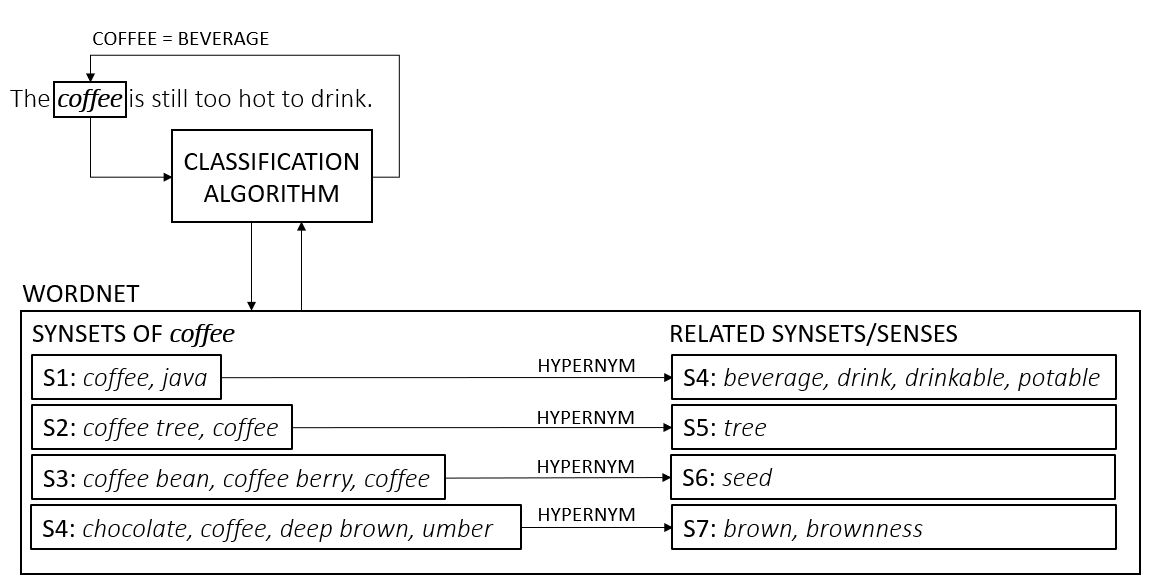
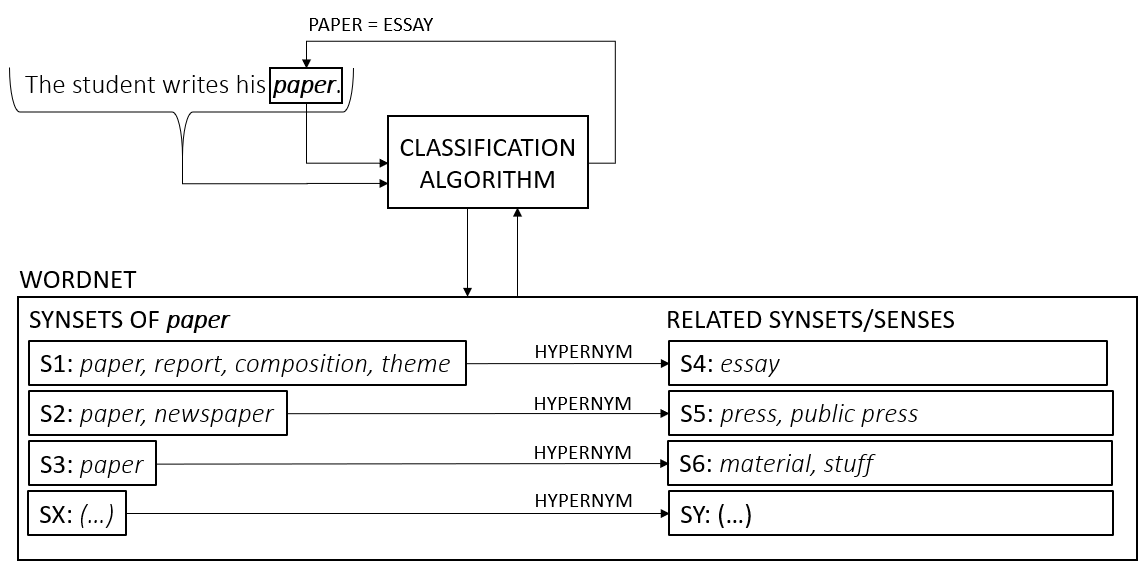
Beispiel WSD angepasst, Bild angepasst und Quelle verbessert.

Changed region(s): [[0.0, 0.478, 1.0, 0.9859], [0.0, 0.0299, 0.5497, 0.3884]]

diff --git a/chapters/c1_wordnet.tex b/chapters/c1_wordnet.tex
@@ -47,7 +47,7 @@ Der bei Nomen am häufigsten auftretende Beziehungstyp ist das Hyponym/Hypernym.
 \par
 \subsection{Word Sense Disambiguation}
 
-Die meisten Worte einer Sprache haben mehrere Bedeutungen. Die richtige Wortbedeutung ergibt sich folglich erst aus dem Kontext der Wortverwendung. Um die Wortbedeutung maschinell zu erfassen, sind ein \textit{Sense Inventory} und ein klassifizierender Algorithmus notwendig. Bei einem solchen Sense Inventory handelt es sich um eine Informationsquelle, in der die verschiedenen Wortbedeutungen einsehbar sind. WordNet kann diese Rolle übernehmen. Ein mehrdeutiges Wort ist in WordNet Mitglied in verschiedenen Synsets, aus deren hypernymen Synsets sich dann die verschiedenen Wortbedeutungen ableiten lassen. Abbildung \ref{fig:WSD} zeigt einen Beispielsatz, indem die Bedeutung des englischen Wortes \textit{coffee} ermittelt werden soll.
+Die meisten Worte einer Sprache haben mehrere Bedeutungen. Die richtige Wortbedeutung ergibt sich folglich erst aus dem Kontext der Wortverwendung. Um die Wortbedeutung maschinell zu erfassen, sind ein \textit{Sense Inventory} und ein klassifizierender Algorithmus notwendig. Bei einem solchen Sense Inventory handelt es sich um eine Informationsquelle, in der die verschiedenen Wortbedeutungen einsehbar sind. WordNet kann diese Rolle übernehmen. Ein mehrdeutiges Wort ist in WordNet Mitglied in verschiedenen Synsets, aus deren hypernymen Synsets sich dann die verschiedenen Wortbedeutungen ableiten lassen. Abbildung \ref{fig:WSD} zeigt einen Beispielsatz, indem die Bedeutung des englischen Wortes \textit{paper} ermittelt werden soll.
 \par 
 
 %\begin{wrapfigure}{r}{15cm}
@@ -64,7 +64,7 @@ Die meisten Worte einer Sprache haben mehrere Bedeutungen. Die richtige Wortbede
 \end{center}
 \end{figure}
 
-Der Klassifikationsalogrithmus, hier als Blackbox dargestellt, nutzt die hierarchische Struktur von WordNet um die verschiedenen Bedeutungen nachzuschlagen. Daraufhin wählt er die wahrscheinlichste Bedeutung im Satzzusammenhang aus. In diesem Fall wählt er korrekt die Bedeutung \textit{beverage} aus.
+Der Klassifikationsalogrithmus, hier als Blackbox dargestellt, nutzt die hierarchische Struktur von WordNet um die verschiedenen Bedeutungen nachzuschlagen. Daraufhin wählt er die wahrscheinlichste Bedeutung im Satzzusammenhang aus. In diesem Fall wählt er korrekt die Bedeutung \textit{essay} aus.
 \par
 Somit ist Word Sense Disambiguation nichts anderes als ein Klassifikationsproblem, das basierend auf gewissen Eingabeparametern eine Einordnung vornimmt. Prinzipiell kann jeder generische, maschinell lernende Klassifikationsalgorithmus zur Lösung herangezogen werden (\cite[vgl.][326]{YAROWSKY}). Als am verlässlichsten stellen jedoch Kombinationen verschiedener Ranking-Algorithem heraus. Die geringe Menge an verfügbaren Trainingsdaten stellt hierbei jedoch immernoch ein Problem dar.
 
